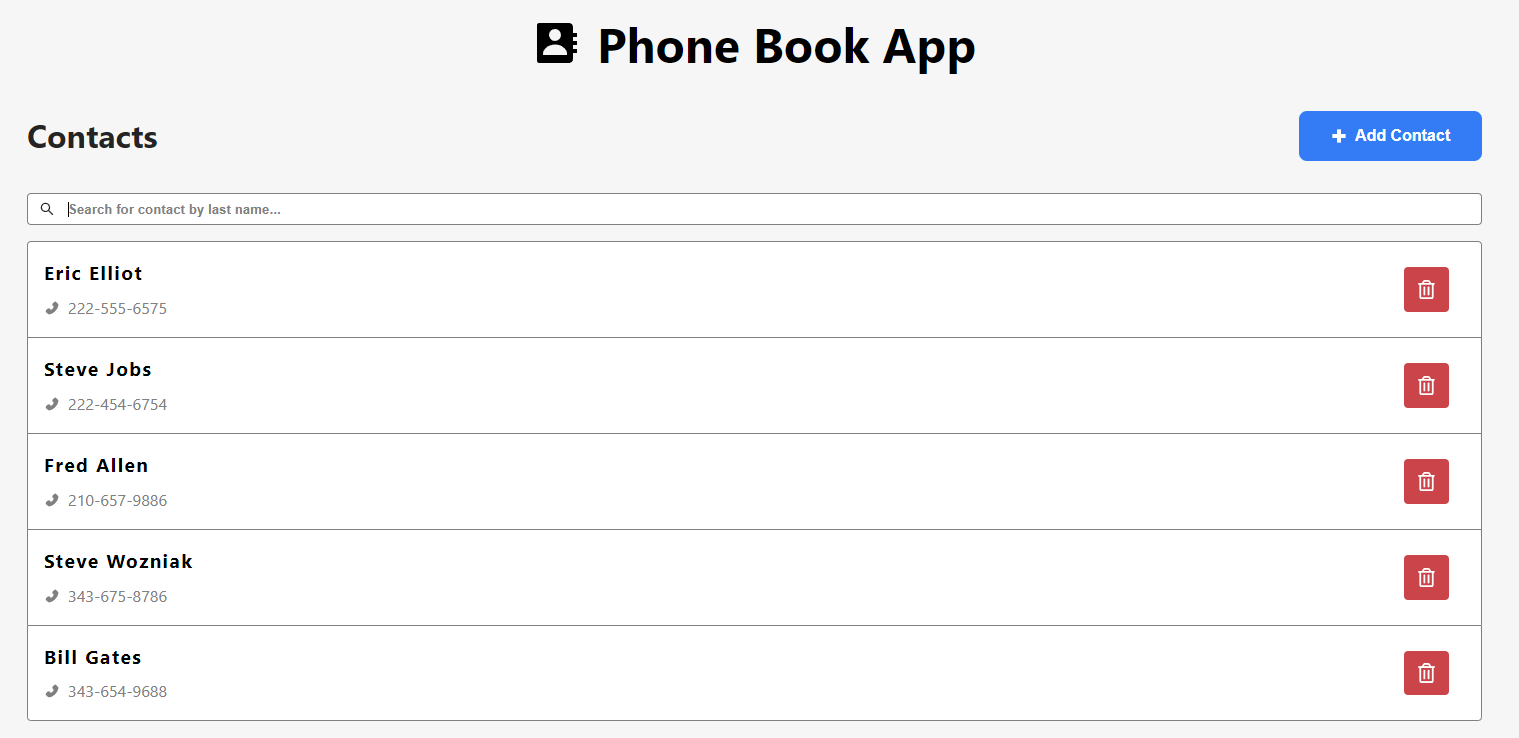
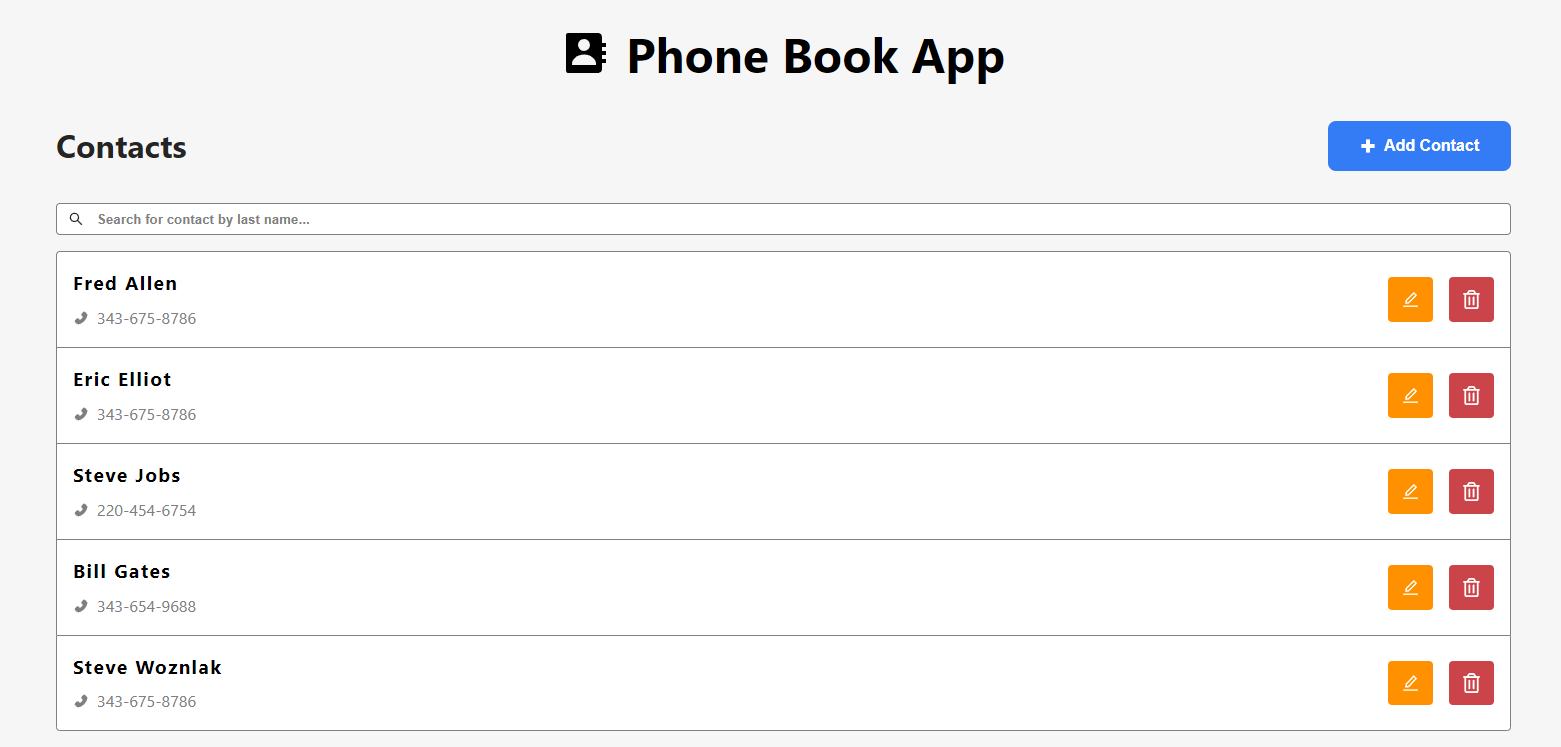
feat(edit-contact): create modal for edit contact

diff --git a/frontend/src/components/contact-item/ContactItem.tsx b/frontend/src/components/contact-item/ContactItem.tsx
@@ -1,22 +1,63 @@
 //#region Imports
 
-import { AiFillPhone } from 'react-icons/ai';
+import { useState } from 'react';
+import { AiFillPhone, AiOutlineEdit } from 'react-icons/ai';
 import { FaRegTrashAlt } from 'react-icons/fa';
-import './ContactItem.css';
+import Modal, { Styles } from 'react-modal';
+import EditContact from '../../modals/edit-contact/EditContact.tsx';
 import { ContactInterface } from '../../models/contact.interface.ts';
+import './ContactItem.css';
 
 //#endregion
 
 export default function ContactItem(contact: ContactInterface) {
+  const [isEditModalOpen, setIsEditModalOpen] = useState<boolean>(false);
+
+  const customStyles: Styles = {
+    overlay: {
+      display: 'flex',
+    },
+    content: {
+      width: '50vw',
+      height: '60vh',
+      padding: 0,
+      border: '1px solid var(--color-warning)',
+      margin: 'auto',
+    },
+  };
+
   const removeContact = () => {
     contact.removeContact(contact.id);
-  }
+  };
+
+  const openEditModal = () => {
+    setIsEditModalOpen(true);
+  };
+
+  const closeEditModal = () => {
+    setIsEditModalOpen(false);
+  };
 
   return (
     <div className="contact">
-      <h3>{ contact.firstName } { contact.lastName }</h3>
-      <div className="phone"><AiFillPhone/>{ contact.phone }</div>
-      <div className="trash" onClick={removeContact}><FaRegTrashAlt/></div>
+      <Modal
+        isOpen={ isEditModalOpen }
+        style={ customStyles }
+        contentElement={ undefined }
+        shouldCloseOnOverlayClick={ true }
+      >
+        <EditContact contact={ contact } close={ closeEditModal }></EditContact>
+      </Modal>
+
+      <div>
+        <h3>{ contact.firstName } { contact.lastName }</h3>
+        <div className="phone"><AiFillPhone/>{ contact.phone }</div>
+      </div>
+
+      <div className="actions">
+        <div className="edit" onClick={ openEditModal }><AiOutlineEdit/></div>
+        <div className="delete" onClick={ removeContact }><FaRegTrashAlt/></div>
+      </div>
     </div>
   );
 }

diff --git a/frontend/src/modals/edit-contact/EditContact.tsx b/frontend/src/modals/edit-contact/EditContact.tsx
@@ -1,0 +1,51 @@
+//#region Imports
+
+import { ChangeEvent, useState } from 'react';
+import { AiOutlineClose } from 'react-icons/ai';
+import { ContactInterface } from '../../models/contact.interface.ts';
+import { EditModalInterface } from '../../models/edit.modal.interface.ts';
+import contactService from '../../services/contact/contact.service.ts';
+import './EditContact.css';
+
+//#endregion
+
+// TODO: adjust for mobile
+export default function EditContact(modal: EditModalInterface) {
+  const [body, setBody] = useState<ContactInterface>({
+    id: modal.contact.id,
+    firstName: modal.contact.firstName,
+    lastName: modal.contact.lastName,
+    phone: modal.contact.phone,
+  });
+
+  const updateContact = async () => {
+    await contactService.update(body.id, body);
+
+    closeModal();
+  };
+
+  const handleInputChange = (event: ChangeEvent<HTMLInputElement>) => {
+    const { name, value } = event.target;
+    setBody({ ...body, [name]: value });
+  };
+
+  const closeModal = () => {
+    modal.close();
+  };
+
+  return (
+    <div className="edit-contact">
+      <AiOutlineClose onClick={ closeModal }/>
+
+      <h1>Edit contact { modal.contact.firstName }</h1>
+
+      <form onSubmit={ updateContact }>
+        <input value={ body.firstName } name="firstName" type="text" placeholder="First Name" onChange={ handleInputChange }/>
+        <input value={ body.lastName } name="lastName" type="text" placeholder="Last Name" onChange={ handleInputChange }/>
+        <input value={ body.phone } name="phone" type="text" placeholder="Phone" onChange={ handleInputChange }/>
+        <button type="submit">Edit</button>
+      </form>
+
+    </div>
+  );
+}

diff --git a/frontend/src/pages/Home.tsx b/frontend/src/pages/Home.tsx
@@ -43,11 +43,11 @@ export default function Home() {
     setInitialListContacts(contactsFiltered);
   };
 
-  const openModal = () => {
+  const openCreateModal = () => {
     setIsCreateModalOpen(true);
   };
 
-  const closeModal = () => {
+  const closeCreateModal = () => {
     setIsCreateModalOpen(false);
   };
 
@@ -57,9 +57,9 @@ export default function Home() {
     },
     content: {
       width: '50vw',
-      height: '50vh',
+      height: '60vh',
       padding: 0,
-      border: '2px solid var(--color-success)',
+      border: '1px solid var(--color-info)',
       margin: 'auto',
     },
   };
@@ -72,14 +72,14 @@ export default function Home() {
         contentElement={ undefined }
         shouldCloseOnOverlayClick={ true }
       >
-        <CreateContact close={ closeModal }></CreateContact>
+        <CreateContact close={ closeCreateModal }></CreateContact>
       </Modal>
 
       <h1><BiSolidContact/> Phone Book App</h1>
 
       <div className="header">
         <strong>Contacts</strong>
-        <button onClick={ openModal }><BiPlusMedical/> Add Contact</button>
+        <button onClick={ openCreateModal }><BiPlusMedical/> Add Contact</button>
       </div>
 
       <div className="search">

diff --git a/frontend/src/modals/edit-contact/EditContact.css b/frontend/src/modals/edit-contact/EditContact.css
@@ -1,4 +1,4 @@
-.create-contact {
+.edit-contact {
   display: flex;
   flex-direction: column;
   justify-content: space-around;
@@ -8,7 +8,7 @@
   background: white;
 }
 
-.create-contact svg {
+.edit-contact svg {
   position: absolute;
   top: 1rem;
   right: 1rem;
@@ -16,16 +16,16 @@
   cursor: pointer;
 }
 
-.create-contact h1 {
+.edit-contact h1 {
   margin-top: 1rem;
 }
 
-.create-contact form {
+.edit-contact form {
   display: inline-grid;
   padding: 0 2rem;
 }
 
-.create-contact form input {
+.edit-contact form input {
   width: 100%;
   height: 2rem;
   border-radius: 4px;
@@ -38,13 +38,13 @@
   margin-bottom: 1rem;
 }
 
-.create-contact button {
+.edit-contact button {
   border: 0;
   outline: 0;
   cursor: pointer;
   font-size: 1rem;
   color: white;
-  background: var(--color-info);
+  background: var(--color-warning);
   border-radius: 8px;
   padding: 1rem 2rem;
   font-weight: bold;

diff --git a/frontend/src/components/contact-item/ContactItem.css b/frontend/src/components/contact-item/ContactItem.css
@@ -3,8 +3,8 @@
   width: 100%;
   height: 100%;
   display: flex;
-  flex-direction: column;
-  justify-content: center;
+  align-items: center;
+  justify-content: space-between;
 }
 
 .contact h3 {
@@ -23,19 +23,34 @@
   margin-right: 0.5rem;
 }
 
-.contact .trash {
-  position: absolute;
-  right: 1rem;
+.contact .actions {
+  display: flex;
+}
+
+.contact .actions div {
+  margin-left: 1rem;
   display: flex;
   align-items: center;
   justify-content: center;
-  background: var(--color-danger);
   border-radius: 4px;
   padding: 0.8rem;
   cursor: pointer;
 }
 
-.contact .trash svg {
+.contact .actions .edit {
+  background: var(--color-warning);
+}
+
+.contact .actions .edit svg {
+  font-size: 1.2rem;
+  color: var(--color-neutral);
+}
+
+.contact .actions .delete {
+  background: var(--color-danger);
+}
+
+.contact .actions .delete svg {
   font-size: 1.2rem;
   color: var(--color-neutral);
 }

diff --git a/frontend/src/models/edit.modal.interface.ts b/frontend/src/models/edit.modal.interface.ts
@@ -1,0 +1,10 @@
+//#region Imports
+
+import { ContactInterface } from './contact.interface.ts';
+import { ModalInterface } from './modal.interface.ts';
+
+//#endregion
+
+export interface EditModalInterface extends ModalInterface {
+  contact: ContactInterface;
+}

diff --git a/frontend/src/modals/create-contact/CreateContact.tsx b/frontend/src/modals/create-contact/CreateContact.tsx
@@ -9,6 +9,7 @@ import './CreateContact.css';
 
 //#endregion
 
+// TODO: adjust for mobile
 export default function CreateContact(modal: ModalInterface) {
   const [body, setBody] = useState<ContactInterface>({
     id: 0,

diff --git a/README.md b/README.md
@@ -1,6 +1,7 @@
 # Phone Book
 
 ## Installation (using NodeJs 18.x + npm)
+
 - Frontend
   - Run `npm i` inside *frontend* folder
   - And run `npm run dev` to start React with Vite app
@@ -14,6 +15,8 @@
 
 ![](prints/phone-book1.PNG)
 ![](prints/phone-book2.PNG)
+![](prints/phone-book3.PNG)
+![](prints/phone-book4.PNG)
 
 ## Testing
 
@@ -22,15 +25,20 @@
 - Pages/components
   - Home
   - ContactItem
+  - CreateContactModal
+  - EditContactModal
 - Services
   - httpService
   - contactService
 - Models
   - ContactInterface
+  - ModalInterface
+  - EditModalInterface
 
 ## Backend
 
 - Entities
+
 ```typescript
 Contact {
   id: number;
@@ -41,6 +49,7 @@ Contact {
 ```
 
 - Routes
+
 > GET - List contacts - **/contact**
 
 > POST - Create contact - **/contact**
@@ -50,6 +59,7 @@ Contact {
 > DELETE - Delete one contact - **/contact/:id**
 
 ## Technologies
+
 - Frontend: React + Vite (typescript)
 - Backend: NestJs (NodeJs) + Prisma (SQLite)
 
